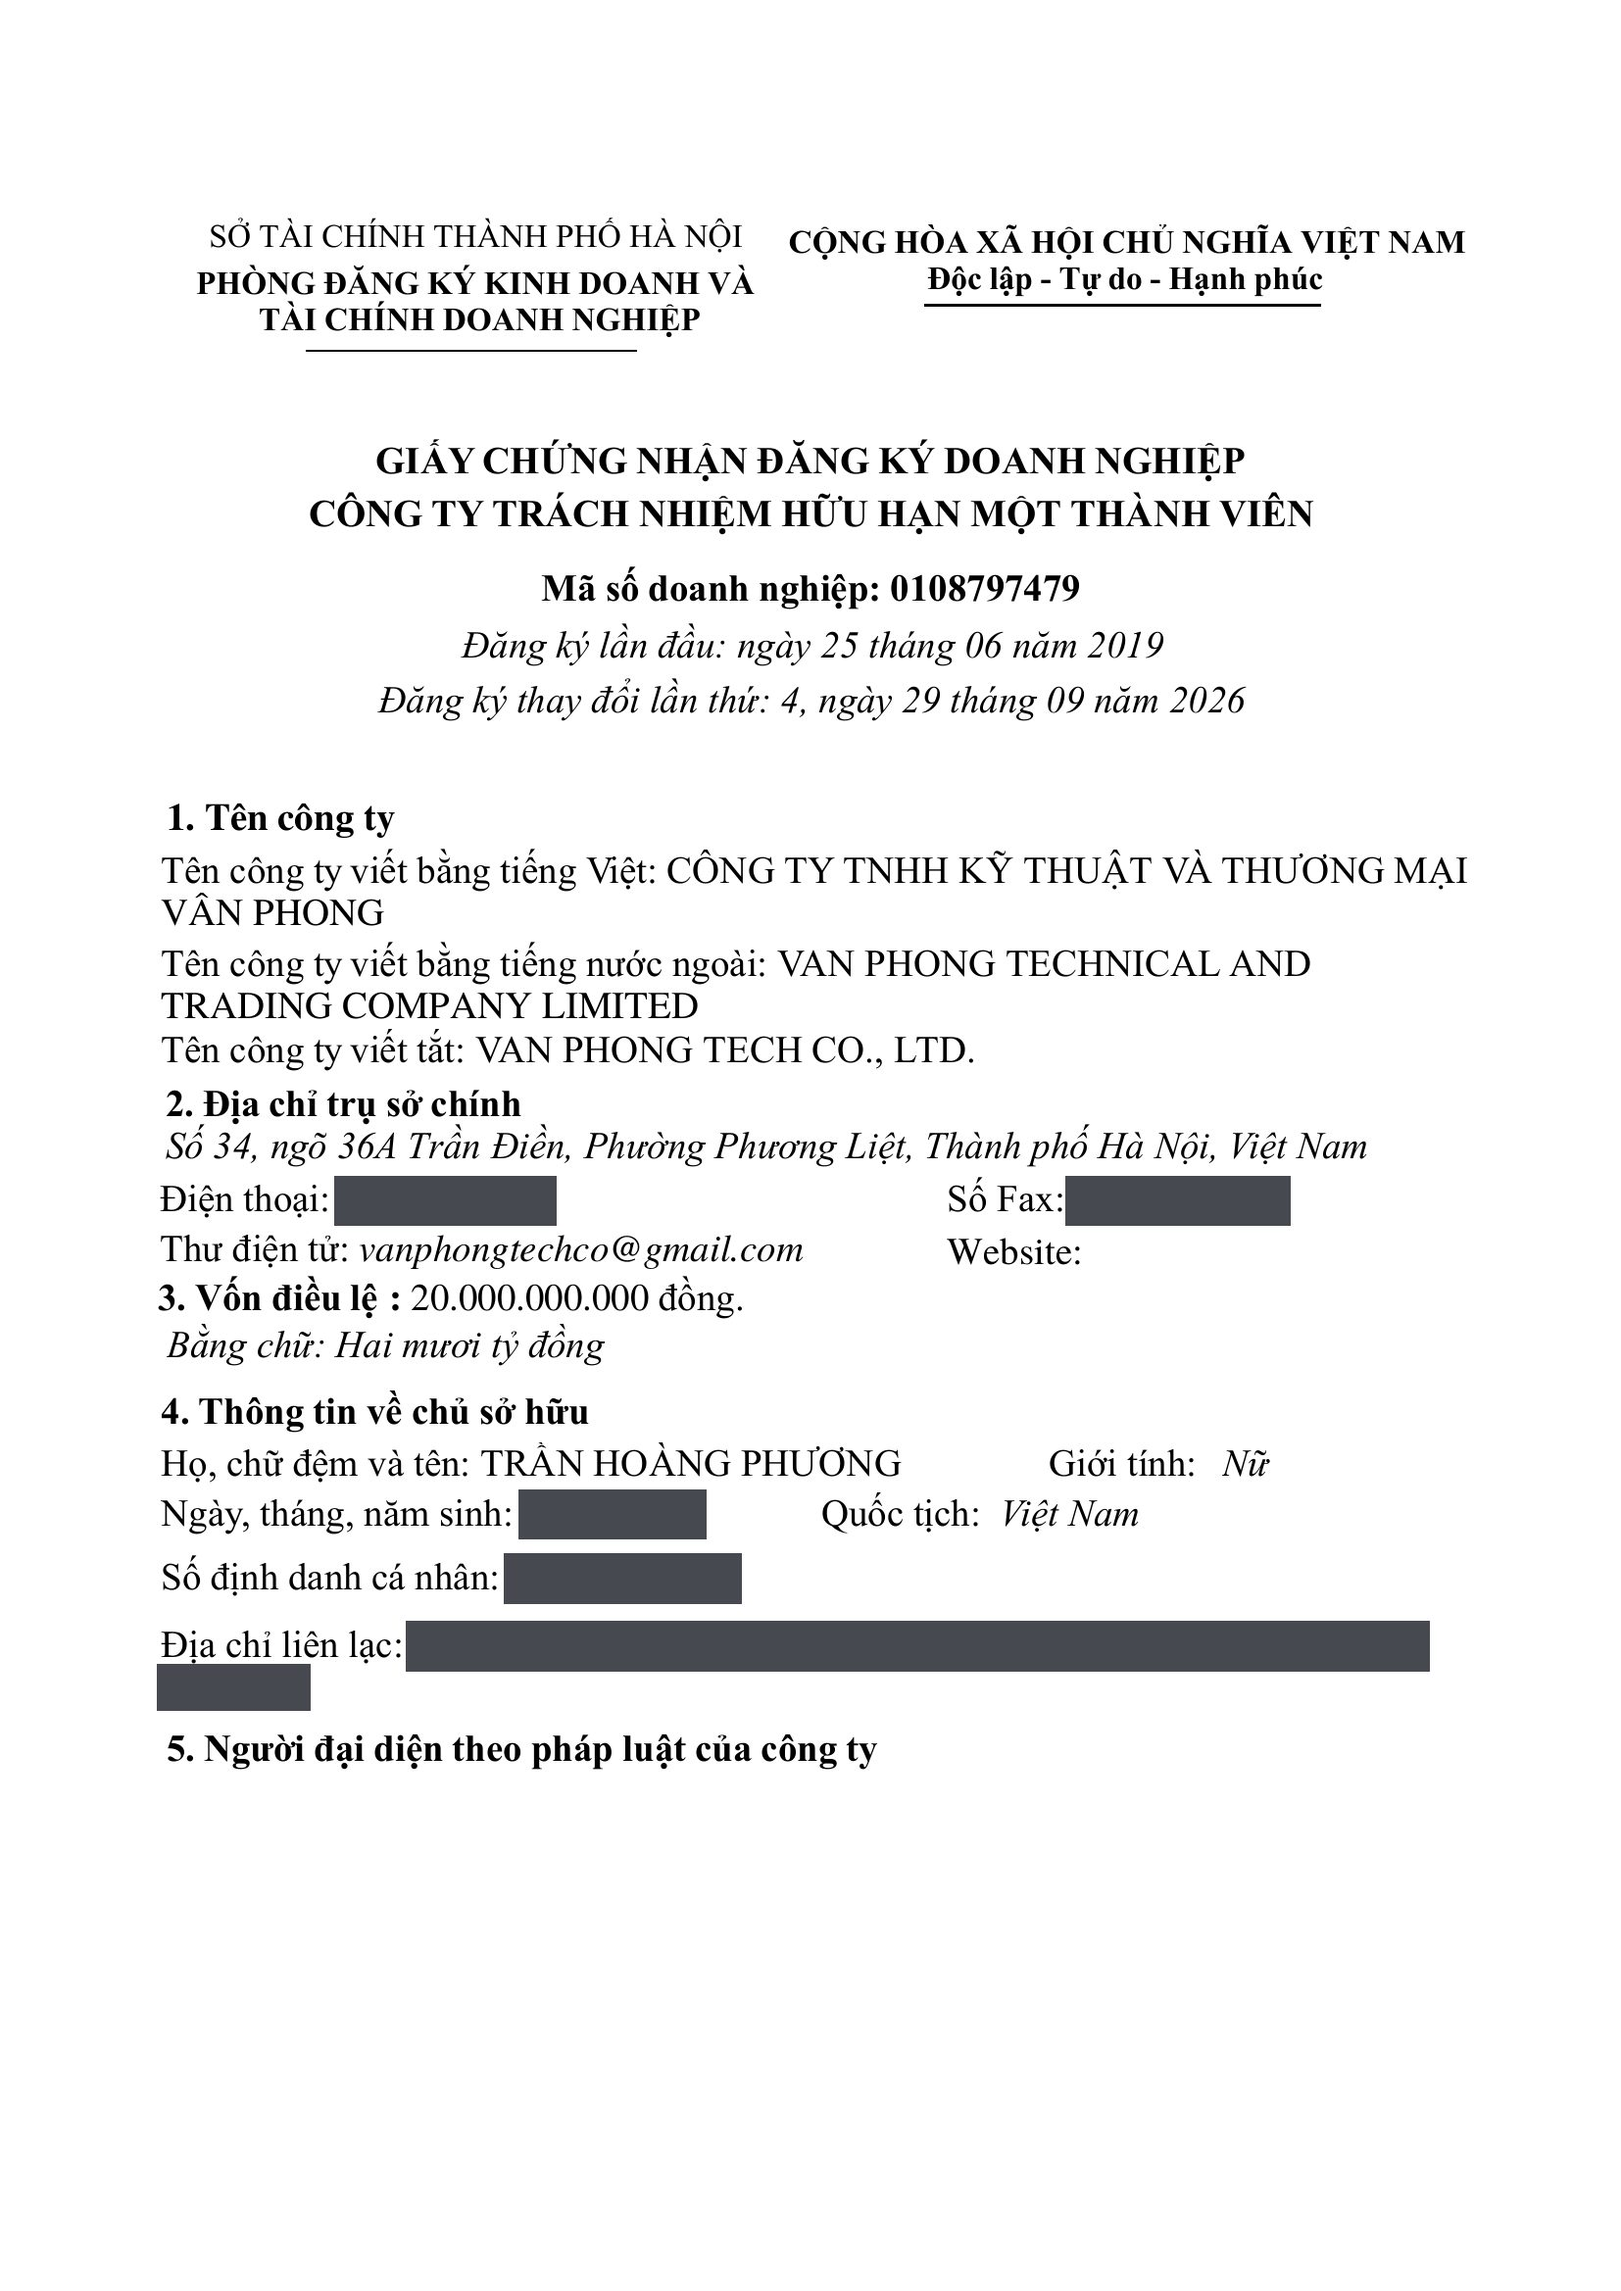
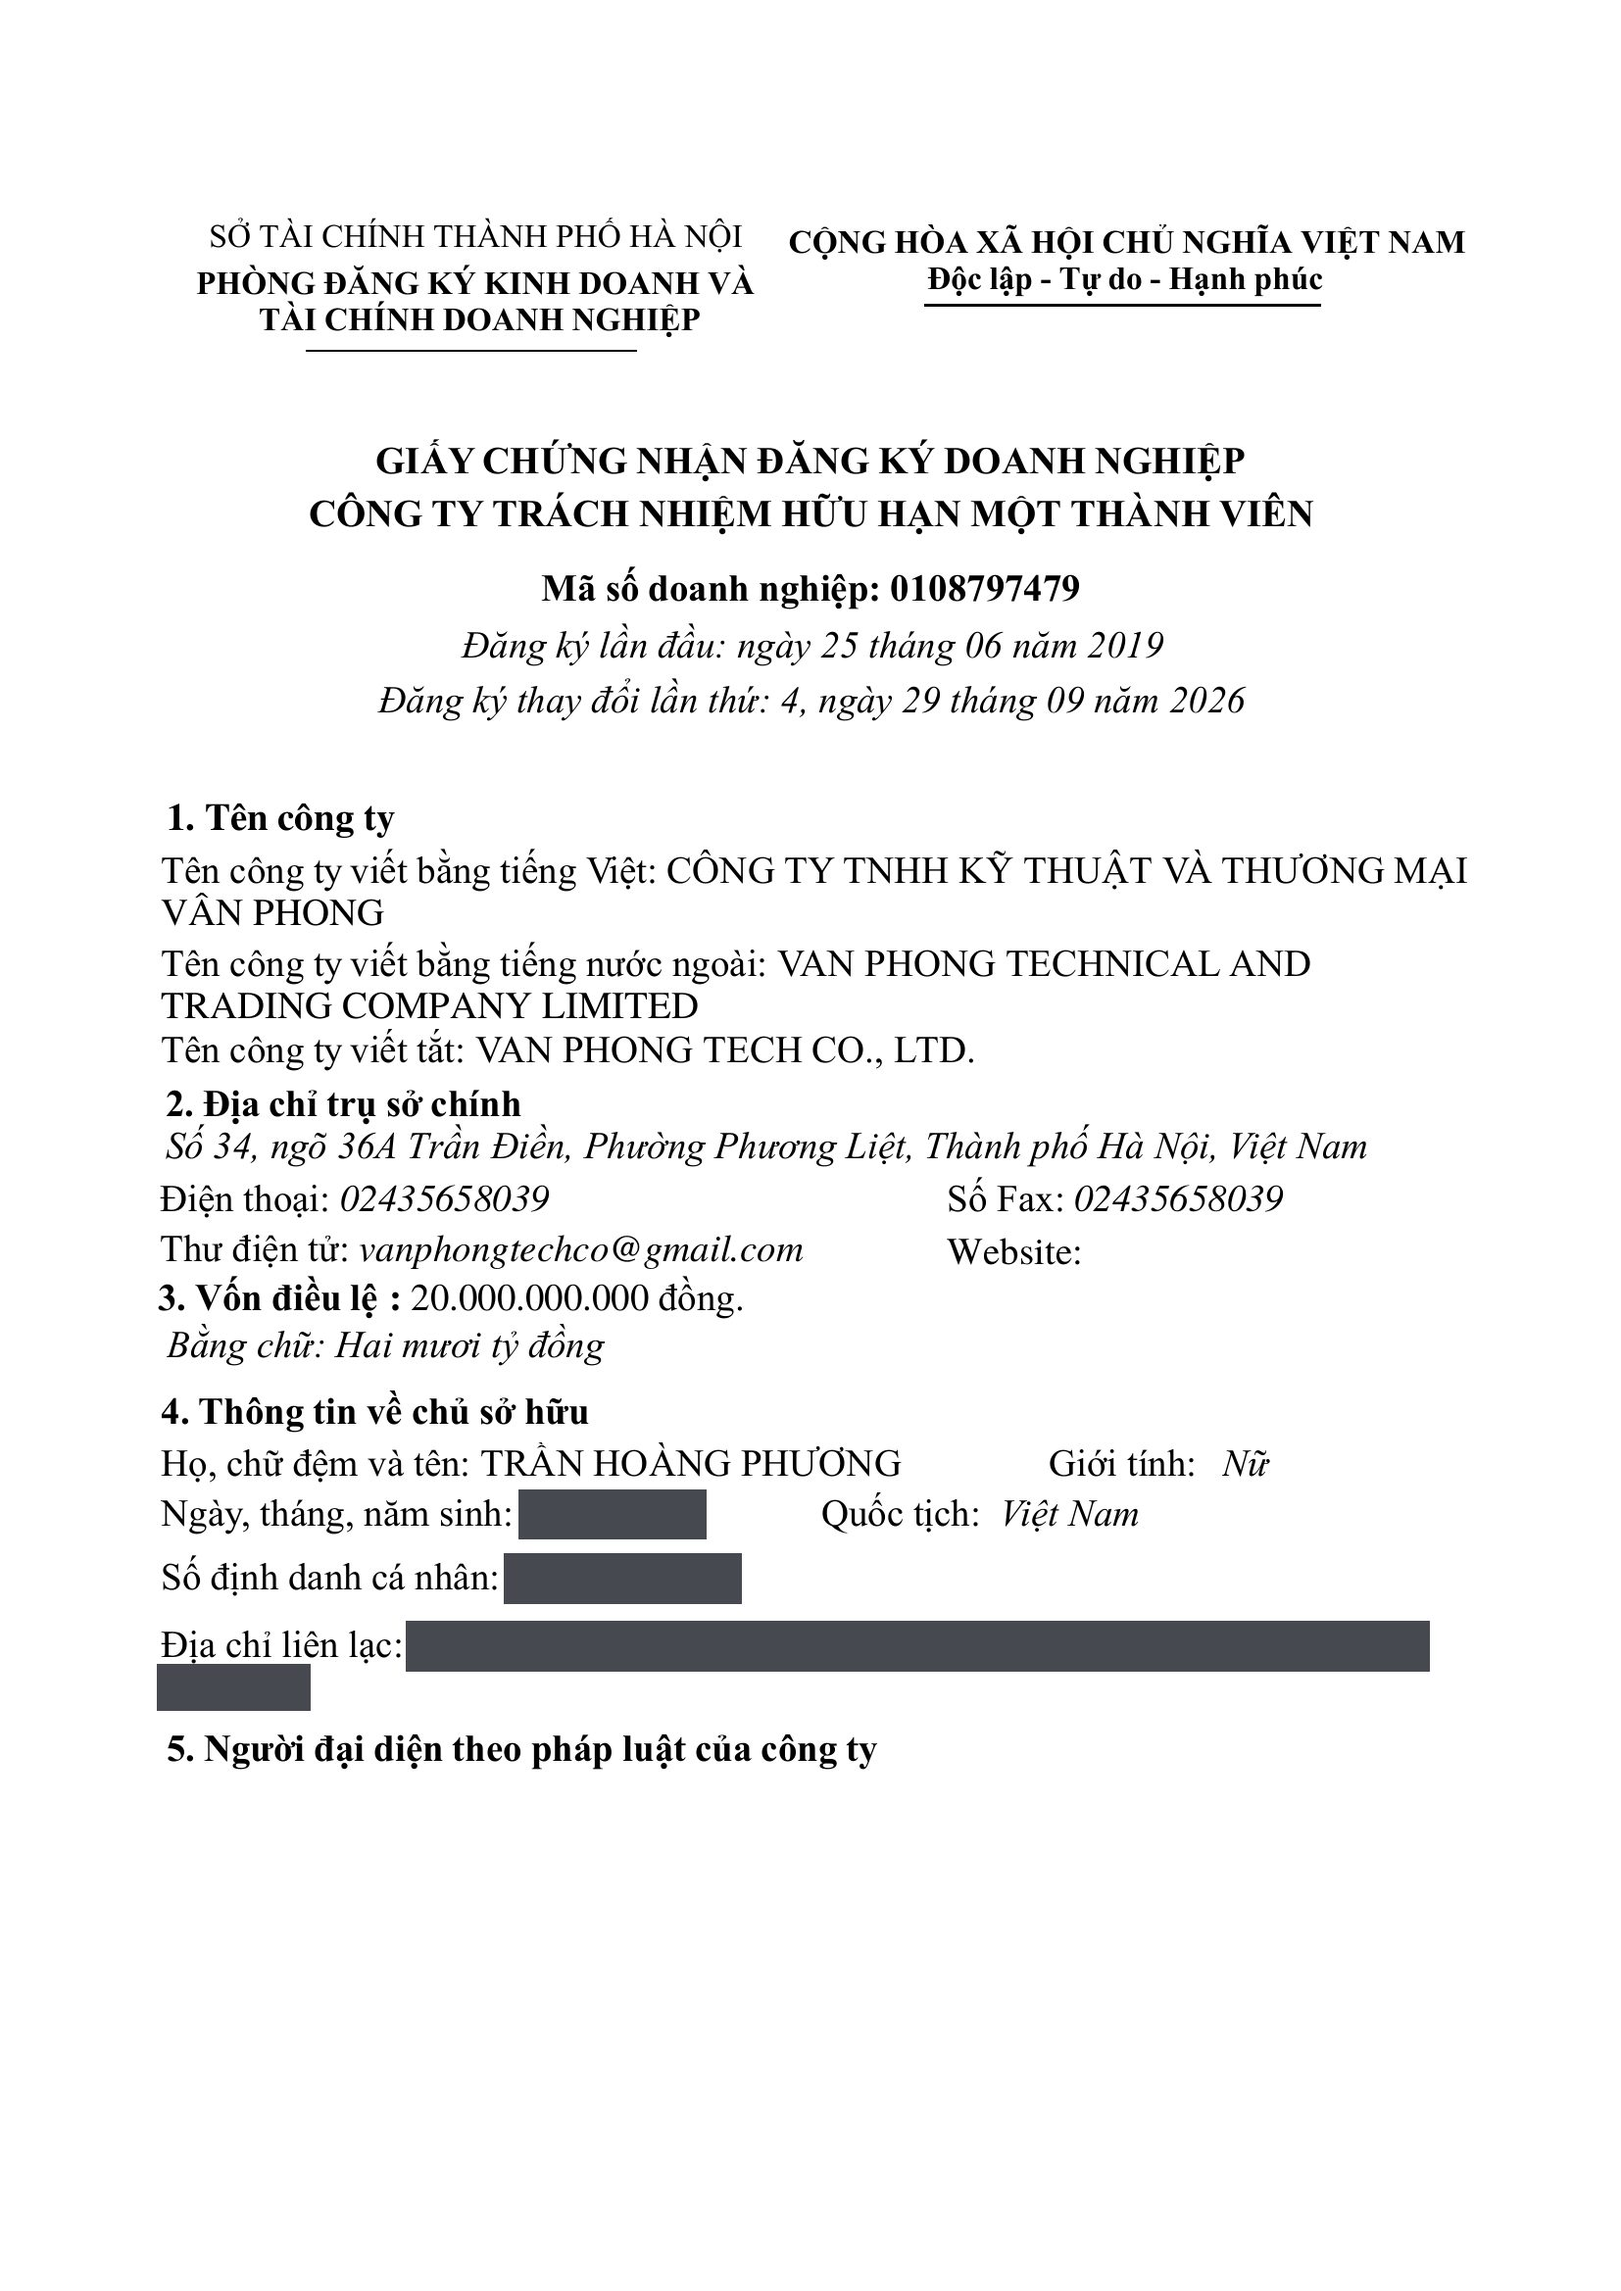
Giấy CN ĐKDN: bỏ che số điện thoại và fax
Claude-Session: https://claude.ai/code/session_01Nv9HEvAiz6hbj6HU9Kr1Xs

Changed region(s): [[0.6475, 0.4996, 0.8017, 0.562], [0.185, 0.4996, 0.3392, 0.562]]

diff --git a/ban-moi/index.html b/ban-moi/index.html
@@ -505,7 +505,7 @@ footer .flogo{height:34px;width:auto;filter:brightness(0) invert(1);margin-botto
 <section class="certs-band" id="chung-nhan"><div class="wrap">
   <div class="title"><h2>Chứng nhận</h2><p>Bấm vào giấy tờ để xem. Các giấy tờ khác sẽ được cập nhật.</p></div>
   <div class="certs">
-    <button type="button" class="cert cert-real" data-gallery="../giay-to/dkdn-trang-1.jpg|../giay-to/dkdn-trang-2.jpg" aria-label="Xem Giấy chứng nhận đăng ký doanh nghiệp"><div class="doc real"><img src="../giay-to/dkdn-trang-1-nho.jpg" alt="Giấy chứng nhận đăng ký doanh nghiệp – trang 1" width="520" height="736" loading="lazy"></div><b>Giấy chứng nhận đăng ký doanh nghiệp</b><small>MSDN 0108797479 · thay đổi lần 4: 29/09/2026 · Bấm để xem</small></button>
+    <button type="button" class="cert cert-real" data-gallery="../giay-to/dkdn-trang-1.jpg?v=2|../giay-to/dkdn-trang-2.jpg?v=2" aria-label="Xem Giấy chứng nhận đăng ký doanh nghiệp"><div class="doc real"><img src="../giay-to/dkdn-trang-1-nho.jpg?v=2" alt="Giấy chứng nhận đăng ký doanh nghiệp – trang 1" width="520" height="736" loading="lazy"></div><b>Giấy chứng nhận đăng ký doanh nghiệp</b><small>MSDN 0108797479 · thay đổi lần 4: 29/09/2026 · Bấm để xem</small></button>
     <div class="cert"><div class="doc"><span>Chứng nhận chất lượng</span></div><b>Chứng nhận chất lượng</b><small>Cập nhật khi có</small></div>
     <div class="cert"><div class="doc"><span>Hồ sơ năng lực (PDF)</span></div><b>Hồ sơ năng lực</b><small>Liên hệ để nhận bản đầy đủ</small></div>
   </div>

diff --git a/index.html b/index.html
@@ -505,7 +505,7 @@ footer .flogo{height:34px;width:auto;filter:brightness(0) invert(1);margin-botto
 <section class="certs-band" id="chung-nhan"><div class="wrap">
   <div class="title"><h2>Chứng nhận</h2><p>Bấm vào giấy tờ để xem. Các giấy tờ khác sẽ được cập nhật.</p></div>
   <div class="certs">
-    <button type="button" class="cert cert-real" data-gallery="giay-to/dkdn-trang-1.jpg|giay-to/dkdn-trang-2.jpg" aria-label="Xem Giấy chứng nhận đăng ký doanh nghiệp"><div class="doc real"><img src="giay-to/dkdn-trang-1-nho.jpg" alt="Giấy chứng nhận đăng ký doanh nghiệp – trang 1" width="520" height="736" loading="lazy"></div><b>Giấy chứng nhận đăng ký doanh nghiệp</b><small>MSDN 0108797479 · thay đổi lần 4: 29/09/2026 · Bấm để xem</small></button>
+    <button type="button" class="cert cert-real" data-gallery="giay-to/dkdn-trang-1.jpg?v=2|giay-to/dkdn-trang-2.jpg?v=2" aria-label="Xem Giấy chứng nhận đăng ký doanh nghiệp"><div class="doc real"><img src="giay-to/dkdn-trang-1-nho.jpg?v=2" alt="Giấy chứng nhận đăng ký doanh nghiệp – trang 1" width="520" height="736" loading="lazy"></div><b>Giấy chứng nhận đăng ký doanh nghiệp</b><small>MSDN 0108797479 · thay đổi lần 4: 29/09/2026 · Bấm để xem</small></button>
     <div class="cert"><div class="doc"><span>Chứng nhận chất lượng</span></div><b>Chứng nhận chất lượng</b><small>Cập nhật khi có</small></div>
     <div class="cert"><div class="doc"><span>Hồ sơ năng lực (PDF)</span></div><b>Hồ sơ năng lực</b><small>Liên hệ để nhận bản đầy đủ</small></div>
   </div>
